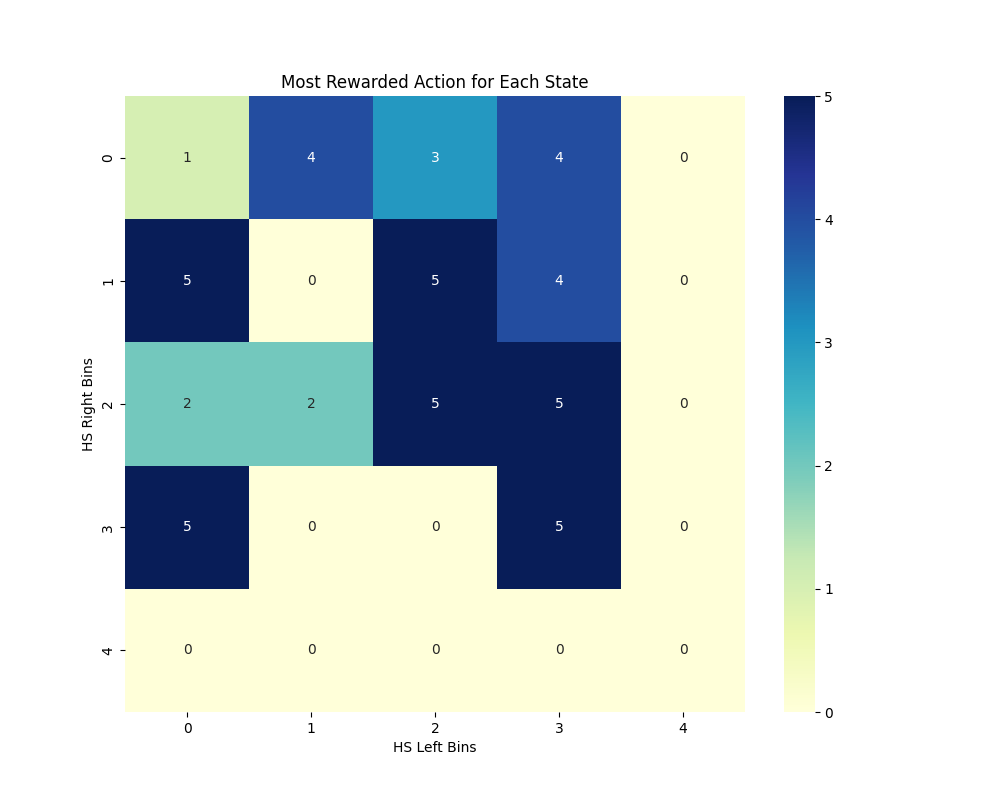
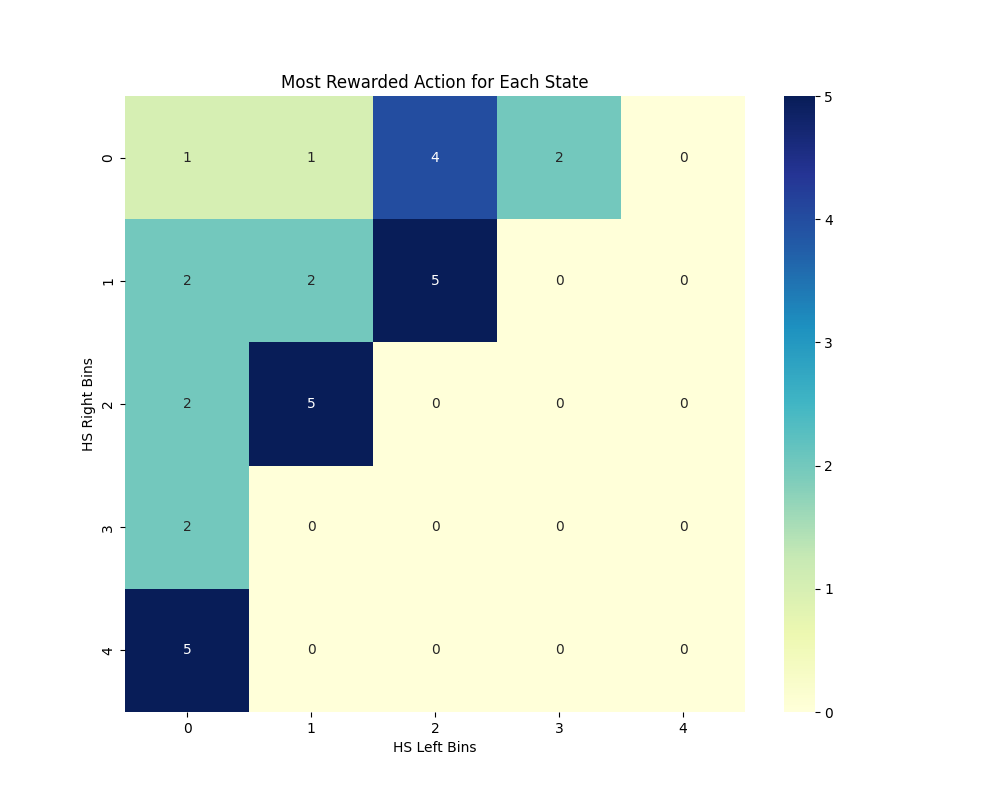
commit

Changed region(s): [[0.124, 0.0938, 0.62, 0.9062]]

diff --git a/plot_evaluate.py b/plot_evaluate.py
@@ -36,10 +36,16 @@ def plot_most_rewarded_action4d(q_values, n_bin1, n_bin2, n_bin3, n_bin4, label_
     # Adjust the annotation for 5 actions case to be 1 to 5
     if  q_values.shape[1] == 5:
         most_rewarded_action = most_rewarded_action + 1
+    # Reshape the 4D state space to 2D by fixing two dimensions
+    # Assume fixed_indices is a tuple (i, j) representing fixed indices for n_bin3 and n_bin4
+    fixed_indices=(0, 0)
+    fixed_i, fixed_j = fixed_indices
+    most_rewarded_action_4d = most_rewarded_action.reshape(n_bin4, n_bin3, n_bin2, n_bin1)
+    # Extract a 2D slice by fixing two of the dimensions
+    most_rewarded_action_2d = most_rewarded_action_4d[0, 0, :, :]
     # Plot the heatmap (reshaping if the states are grid-like, otherwise just plot)
     plt.figure(figsize=(10, 8))
-    most_rewarded_action = most_rewarded_action.reshape(n_bin1, n_bin2, n_bin3, n_bin4)
-    sns.heatmap(most_rewarded_action[:,:,0,0], cmap="YlGnBu", annot=True)
+    sns.heatmap(most_rewarded_action_2d, cmap="YlGnBu", annot=True)
     plt.title("Most Rewarded Action for Each State")
     plt.xlabel(label_bin1)
     plt.ylabel(label_bin2)
